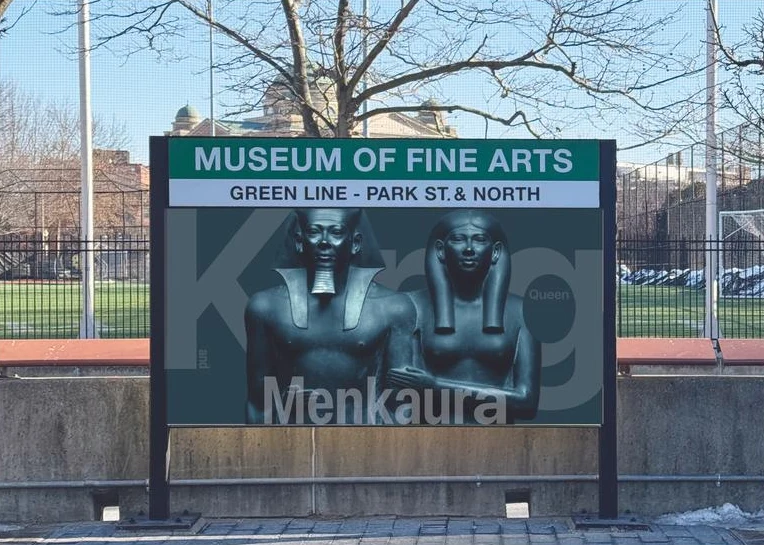
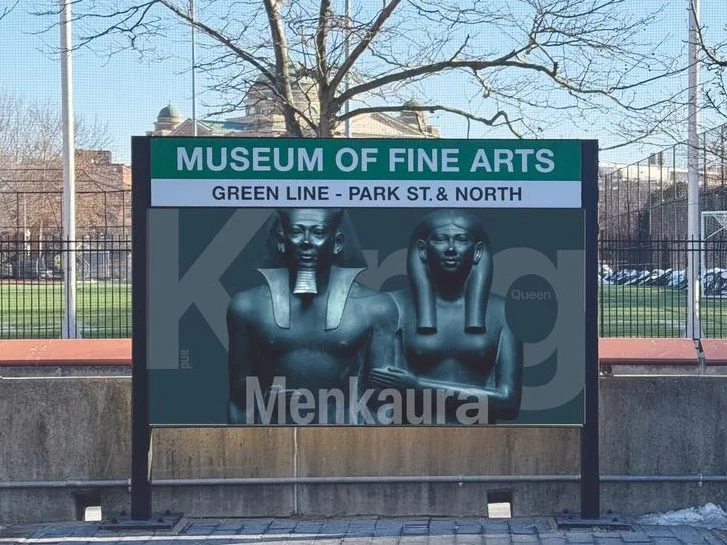
Graphic & Art: one clean cover per project
Replaces the multi-image collages with a single cover each: the sharp
day-guard "feel refreshed" ad full width (the old set showed ads since
removed from that page), and Playing Cards and King Menkaura side by side
in matching 4:3 frames.

Claude-Session: https://claude.ai/code/session_01XrSCNk8CdZFL88DQkgrBgR

diff --git a/designs.html b/designs.html
@@ -27,7 +27,7 @@
 <main class="page page-page" id="experiments">
 <div class="page-content">
 <header class="cs-head"><h1 class="cs-title">Graphic &amp; Art<span class="dot">.</span></h1><p class="cs-sub">Selected marketing, print and wayfinding work.</p></header>
-<div class="bento"><a class="bn bn--hero" href="day-guard.html" style="--span:12"><div class="bn-set"><figure style="--r:0.5624"><img alt="day–guard “Beat the Bloat” Story ad" loading="lazy" onerror="this.hidden=true" src="images/day-guard/127-9-16-3.webp"/></figure><figure style="--r:0.5624"><img alt="day–guard Story ad: backed by 200+ studies" loading="lazy" onerror="this.hidden=true" src="images/day-guard/32-9-16-1-1.webp"/></figure><figure style="--r:0.5624"><img alt="day–guard Story ad: drink without worry" loading="lazy" onerror="this.hidden=true" src="images/day-guard/14-9-16.webp"/></figure><figure style="--r:0.8000"><img alt="day–guard 2025 Year Wrapped post" loading="lazy" onerror="this.hidden=true" src="images/day-guard/46-instagram-post-13.webp"/></figure></div><div class="bn-cap"><span class="bn-n">(01)</span><h3 class="bn-title">day–guard</h3><span class="bn-sub">Meta ads, social content and emails · 300K+ impressions</span></div></a><a class="bn bn--pair" href="playing-cards.html" style="--span:6"><div class="bn-set"><figure style="--r:0.6470"><img alt="Playing Cards deck sheet" loading="lazy" onerror="this.hidden=true" src="images/playing-cards/01-playing-cards-page-1.jpg"/></figure><figure style="--r:1.1830"><img alt="Printed Playing Cards laid out" loading="lazy" onerror="this.hidden=true" src="images/designs/05-playing-cards-spread.webp"/></figure></div><div class="bn-cap"><span class="bn-n">(02)</span><h3 class="bn-title">Playing Cards</h3><span class="bn-sub">Riso-printed card deck</span></div></a><a class="bn bn--pair" href="king-menkaura-and-queen.html" style="--span:6"><div class="bn-set"><figure style="--r:0.4286"><img alt="King Menkaura and Queen poster" loading="lazy" onerror="this.hidden=true" src="images/designs/03-king-poster.jpg"/></figure><figure style="--r:1.4018"><img alt="Menkaura wayfinding sign at the MFA transit stop" loading="lazy" onerror="this.hidden=true" src="images/designs/04-king-mfa-sign.webp"/></figure></div><div class="bn-cap"><span class="bn-n">(03)</span><h3 class="bn-title">King Menkaura and Queen</h3><span class="bn-sub">MFA wayfinding system</span></div></a></div>
+<div class="bento"><a class="bn bn--hero" href="day-guard.html" style="--span:12"><div class="bn-img bn-cover" style="aspect-ratio:2000/1047"><img alt="day–guard “feel refreshed” ad" loading="lazy" onerror="this.hidden=true" src="images/day-guard/01-1.91-1-1.webp?v=5"/></div><div class="bn-cap"><span class="bn-n">(01)</span><h3 class="bn-title">day–guard</h3><span class="bn-sub">Email, Meta ads and social media · 300K+ impressions</span></div></a><a class="bn bn--pair" href="playing-cards.html" style="--span:6"><div class="bn-img bn-cover" style="aspect-ratio:4/3"><img alt="Printed Playing Cards deck laid out" loading="lazy" onerror="this.hidden=true" src="images/designs/05-playing-cards-spread.webp?v=2"/></div><div class="bn-cap"><span class="bn-n">(02)</span><h3 class="bn-title">Playing Cards</h3><span class="bn-sub">Riso-printed card deck</span></div></a><a class="bn bn--pair" href="king-menkaura-and-queen.html" style="--span:6"><div class="bn-img bn-cover" style="aspect-ratio:4/3"><img alt="Menkaura wayfinding sign at the MFA transit stop" loading="lazy" onerror="this.hidden=true" src="images/designs/04-king-mfa-sign.webp?v=2"/></div><div class="bn-cap"><span class="bn-n">(03)</span><h3 class="bn-title">King Menkaura and Queen</h3><span class="bn-sub">MFA wayfinding system</span></div></a></div>
 <footer class="site-foot" id="contact">
 <div class="foot-row"><span>Jasmine Kim, UI/UX &amp; Graphic Designer</span>
 <span class="foot-links"><a href="mailto:jasminekim535@gmail.com">Email ↗</a><a href="https://www.linkedin.com/in/jasmine-kim-22838a339/" rel="noopener" target="_blank">LinkedIn ↗</a><a href="https://drive.google.com/file/d/1OOqGdKUFcIr9i4K3hlURFipVqCy_xz__/view?usp=sharing" rel="noopener" target="_blank">Resume ↗</a></span></div>

diff --git a/styles.css b/styles.css
@@ -399,6 +399,8 @@ img, video { display: block; }
 .bento { display: grid; grid-template-columns: repeat(12, minmax(0, 1fr)); gap: 5.6rem 2rem; margin-top: 2.4rem; }
 .bn { grid-column: span var(--span); display: block; color: inherit; }
 .bn-img { overflow: hidden; background: var(--ph); }
+.bn .bn-cover { height: auto !important; }
+.bn-cover img { object-fit: cover !important; }
 .bn--xl .bn-img { height: clamp(32rem, 40vw, 56rem); }
 .bn--lg .bn-img { height: clamp(28rem, 32vw, 44rem); }
 .bn--md .bn-img { height: clamp(24rem, 26vw, 36rem); }

diff --git a/images/MANIFEST.md b/images/MANIFEST.md
@@ -199,8 +199,8 @@ Until a file exists, the page shows a blank placeholder box at the correct size.
 | `images/designs/01-9-16.png` | 9_16.png | 2160×3840 |
 | `images/designs/02-playing-cards-page-2.jpg` | playing-cards_Page_2.jpg | 2200×3400 |
 | `images/designs/03-king-poster.jpg` | king-poster-.jpg | 3456×8064 |
-| `images/designs/04-king-mfa-sign.webp` | print-copy_Page_4.jpg, sign photo cropped | 764×545 |
-| `images/designs/05-playing-cards-spread.webp` | IMG_2250.jpeg, center crop | 1183×1000 |
+| `images/designs/04-king-mfa-sign.webp` | print-copy_Page_4.jpg, sign photo cropped 4:3 | 727×545 |
+| `images/designs/05-playing-cards-spread.webp` | IMG_2250.jpeg | 1600×1200 |
 | `images/designs/04-jasmine-poster.jpg` | Jasmine-poster.jpg | 5148×8008 |
 | `images/designs/05-posters-final-page-1.jpg` | posters-final_Page_1.jpg | 4850×7250 |
 | `images/designs/06-typeface-page-4.jpg` | typeface_Page_4.jpg | 2200×3400 |
